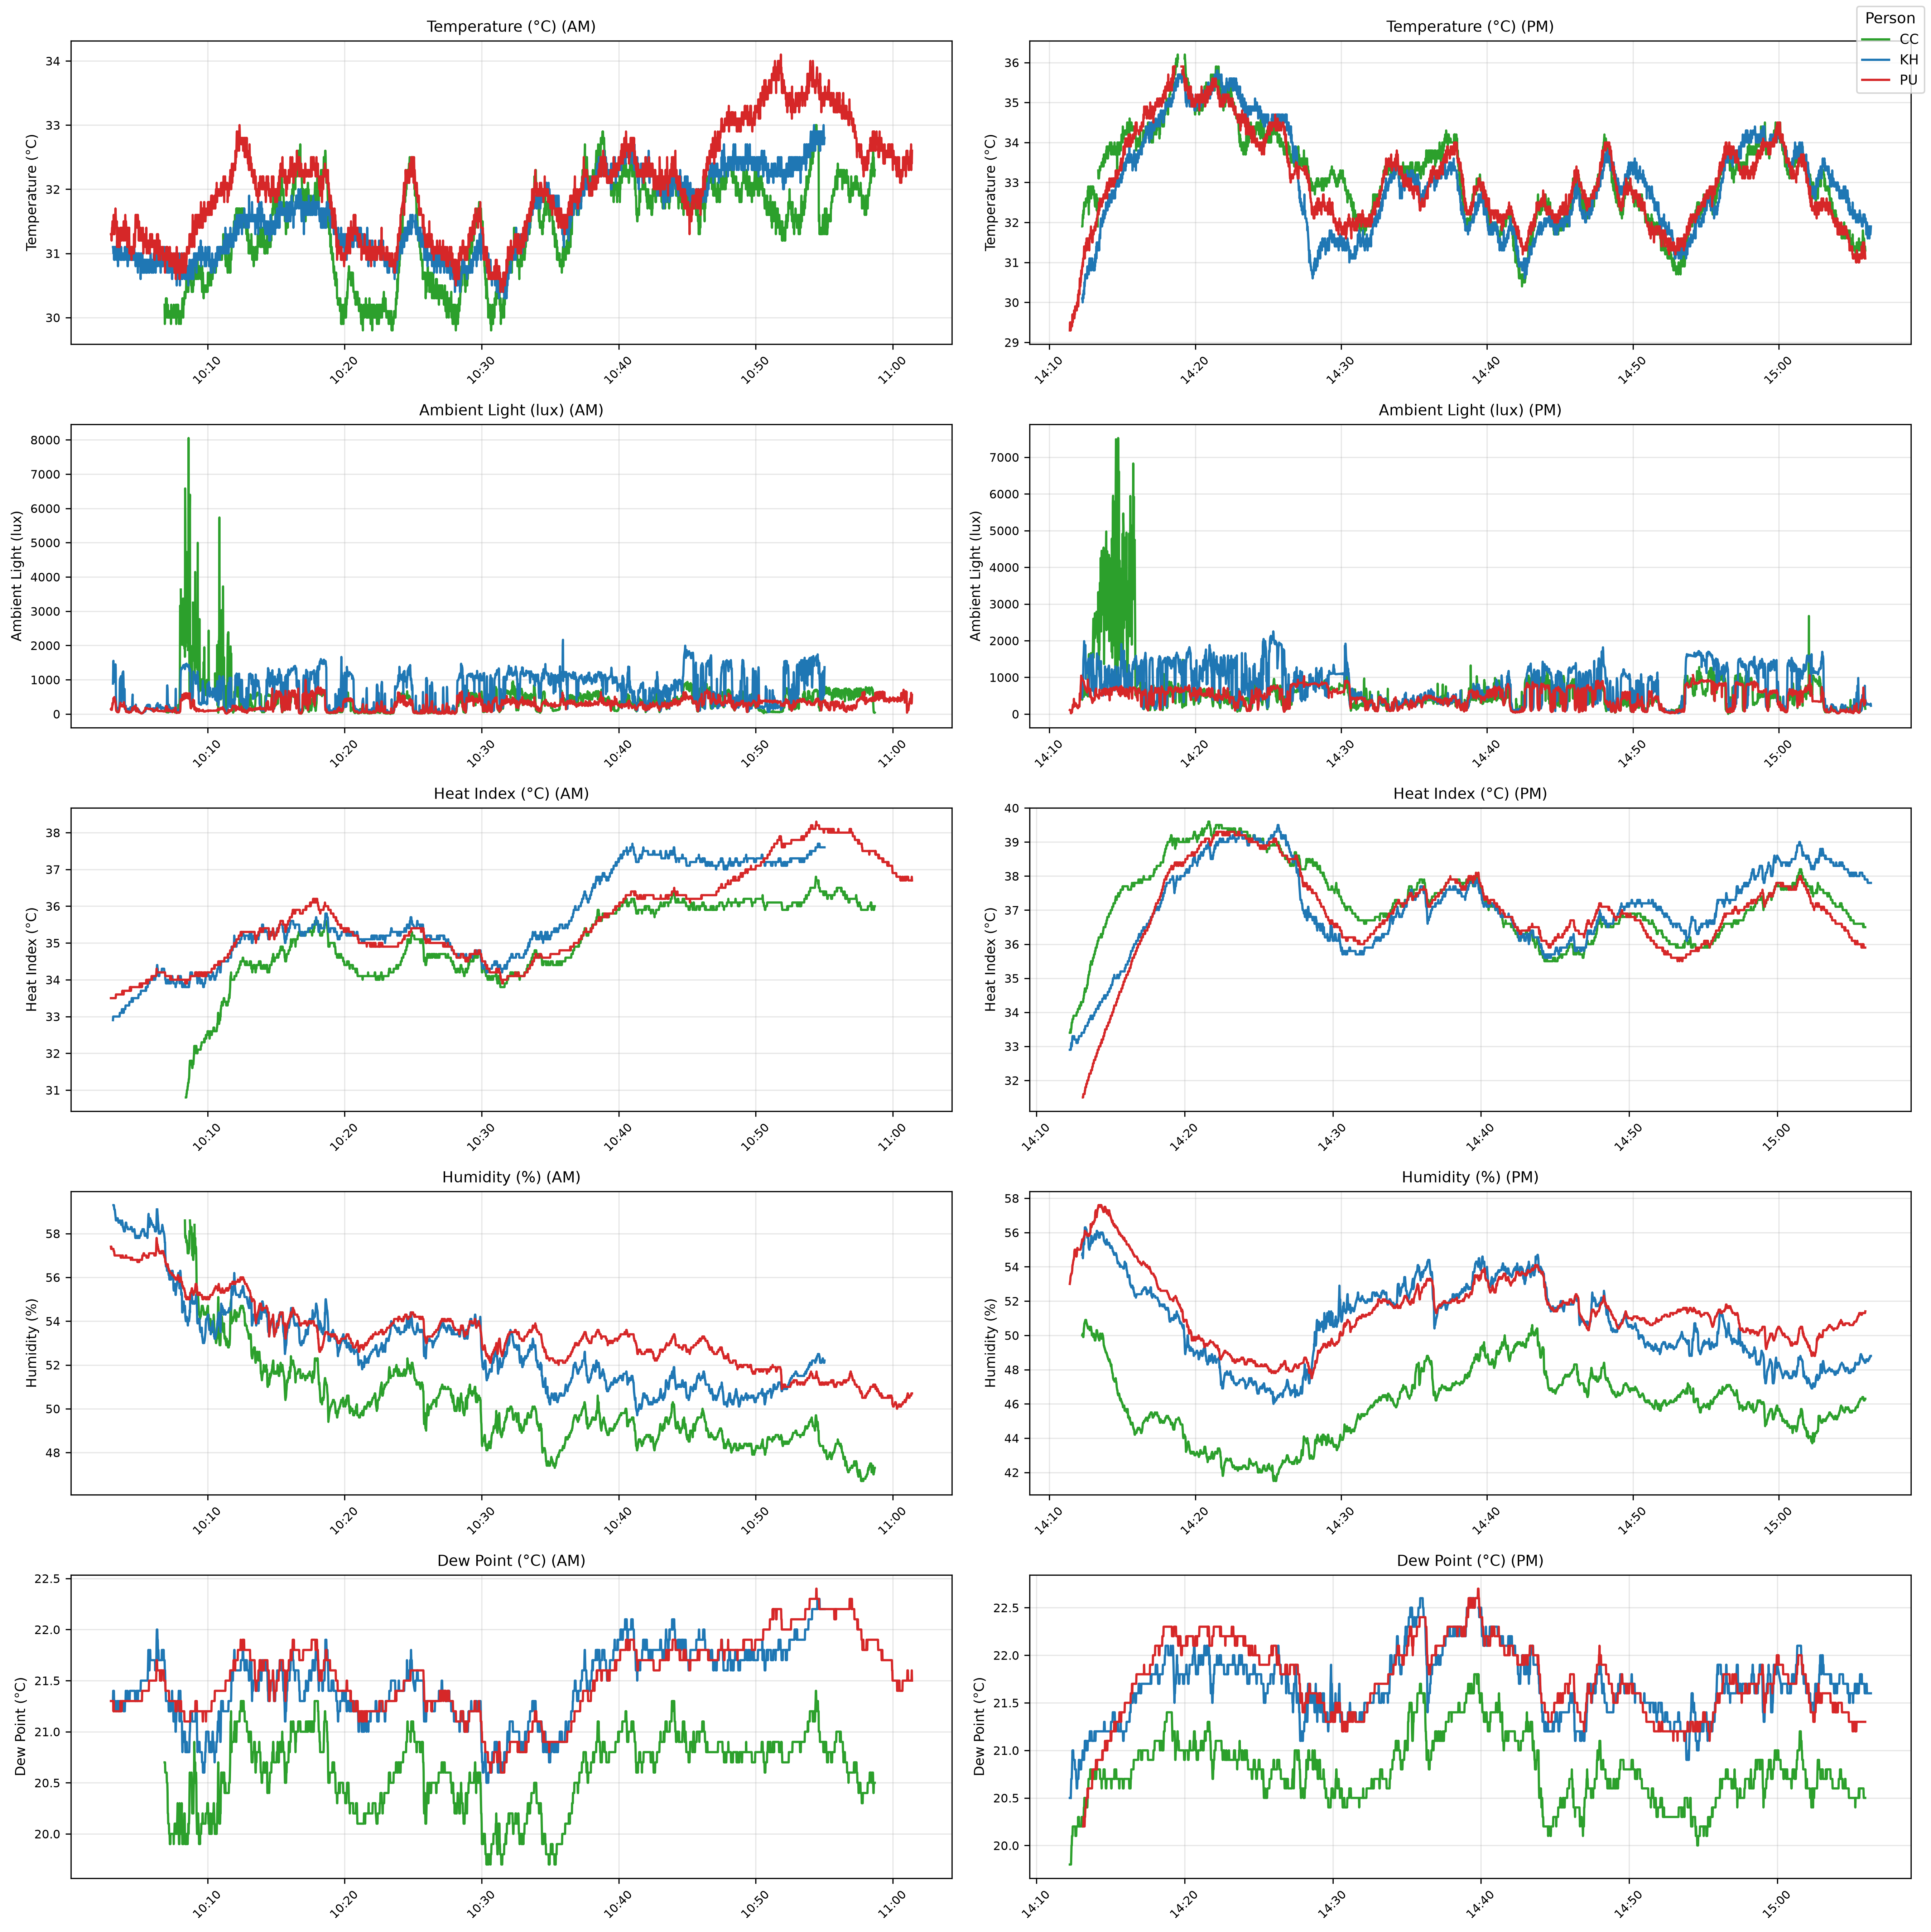
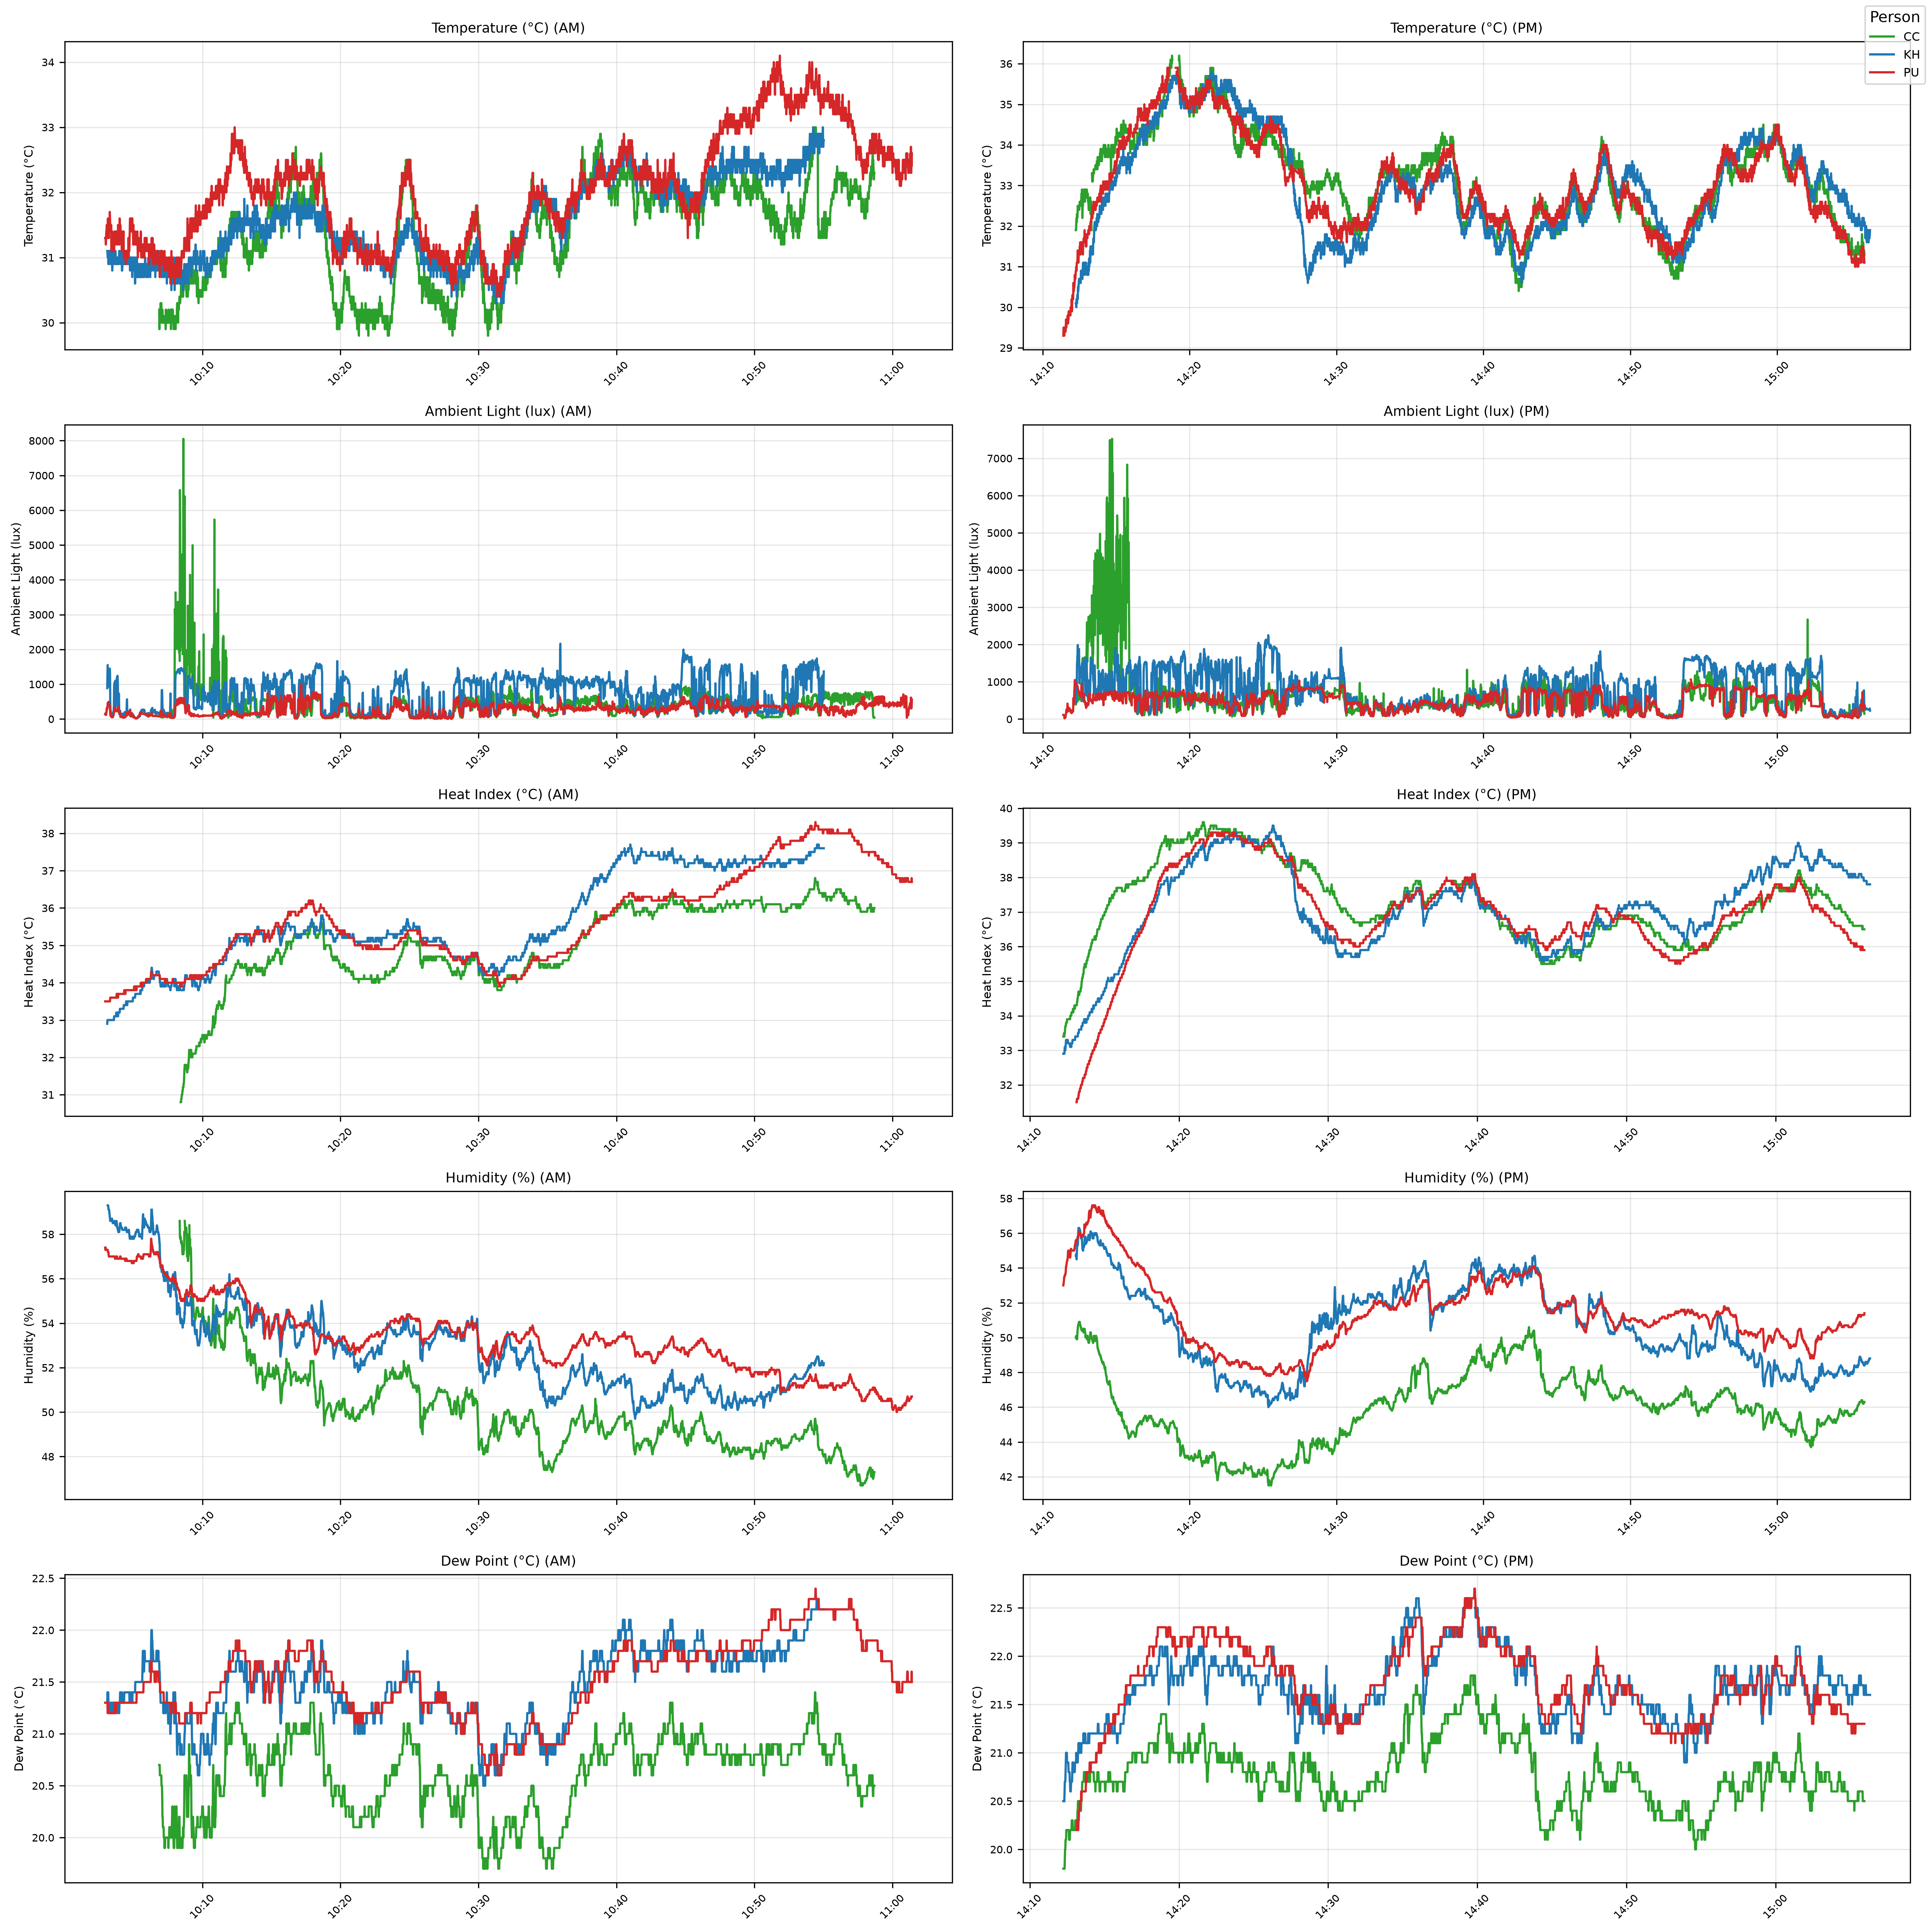
greg changes

diff --git a/analysis.py b/analysis.py
@@ -20,11 +20,11 @@ print("Using folder:", folder)
 
 files = glob.glob(os.path.join(folder, "*.csv"))
 
+dfs = []
+
 # ---------------------------------------------------
 # 2. LOAD DATA
 # ---------------------------------------------------
-dfs = []
-
 for f in files:
 
     name = os.path.basename(f)
@@ -79,7 +79,7 @@ for col in [temp_col, light_col, heat_col, humidity_col, dew_col]:
         data[col] = extract_numeric(data[col])
 
 # ---------------------------------------------------
-# 5. CREATE DATETIME
+# 5. DATETIME
 # ---------------------------------------------------
 if "Date" in data.columns and "Time" in data.columns:
 
@@ -95,7 +95,7 @@ data = data.dropna(subset=["datetime", "person"])
 data = data.sort_values("datetime")
 
 # ---------------------------------------------------
-# 6. AM / PM SPLIT (1:30 PM FIXED)
+# 6. AM / PM SPLIT
 # ---------------------------------------------------
 data["hour_decimal"] = (
     data["datetime"].dt.hour +
@@ -111,7 +111,7 @@ data["period"] = np.where(
 )
 
 # ---------------------------------------------------
-# 7. OUTLIER REMOVAL (±3 STD)
+# 7. OUTLIERS (±3 STD)
 # ---------------------------------------------------
 variables = [temp_col, light_col, heat_col, humidity_col, dew_col]
 
@@ -137,18 +137,16 @@ for person in data["person"].unique():
         data.loc[outliers, col] = np.nan
 
 # ---------------------------------------------------
-# 8. GAP BREAK FUNCTION (FIXED)
+# 8. GAP BREAKS
 # ---------------------------------------------------
 def break_gaps(df, time_col, value_col, threshold_minutes=20):
 
     df = df.sort_values(time_col).copy()
 
     diff = df[time_col].diff()
-
     threshold = pd.Timedelta(minutes=threshold_minutes)
 
     gap = diff > threshold
-
     df.loc[gap, value_col] = np.nan
 
     return df
@@ -164,17 +162,12 @@ colors = {
     "CC": "#2ca02c"
 }
 
-default_color = "black"
+# ---------------------------------------------------
+# 10. PLOT
+# ---------------------------------------------------
+fig, axes = plt.subplots(5, 2, figsize=(18, 18), sharex=False)
 
-# ---------------------------------------------------
-# 10. PLOT SETUP
-# ---------------------------------------------------
-fig, axes = plt.subplots(
-    5,
-    2,
-    figsize=(18, 18),
-    sharex=False
-)
+fig.subplots_adjust(hspace=0.35, wspace=0.15)
 
 plots = [
     (temp_col, "Temperature (°C)"),
@@ -184,9 +177,6 @@ plots = [
     (dew_col, "Dew Point (°C)")
 ]
 
-# ---------------------------------------------------
-# 11. PLOTTING
-# ---------------------------------------------------
 for row, (col, title) in enumerate(plots):
 
     if col is None:
@@ -200,11 +190,7 @@ for row, (col, title) in enumerate(plots):
 
         for person in people:
 
-            subset = subset_period[
-                subset_period["person"] == person
-            ].copy()
-
-            # break fake continuous lines
+            subset = subset_period[subset_period["person"] == person].copy()
             subset = break_gaps(subset, "datetime", col)
 
             ax.plot(
@@ -212,22 +198,27 @@ for row, (col, title) in enumerate(plots):
                 subset[col],
                 label=person,
                 linewidth=1.5,
-                color=colors.get(person, default_color)
+                color=colors.get(person)
             )
 
-        ax.set_title(f"{title} ({period})", fontsize=10)
-        ax.set_ylabel(title, fontsize=9)
+        # ---------------------------
+        # FORMATTING FIXES
+        # ---------------------------
+        ax.set_title(f"{title} ({period})", fontsize=9)
+
+        ax.set_ylabel(title, fontsize=8)
+
+        ax.tick_params(axis="x", labelsize=7, rotation=45)
+        ax.tick_params(axis="y", labelsize=7)
+
         ax.grid(True, alpha=0.3)
 
         ax.xaxis.set_major_formatter(
             mdates.DateFormatter("%H:%M")
         )
 
-        ax.tick_params(axis="x", rotation=45, labelsize=8)
-        ax.tick_params(axis="y", labelsize=8)
-
 # ---------------------------------------------------
-# 12. LEGEND
+# 11. LEGEND
 # ---------------------------------------------------
 handles, labels = axes[0, 0].get_legend_handles_labels()
 
@@ -236,11 +227,11 @@ fig.legend(
     labels,
     title="Person",
     loc="upper right",
-    fontsize=9
+    fontsize=8
 )
 
 # ---------------------------------------------------
-# 13. SAVE OUTPUT
+# 12. SAVE
 # ---------------------------------------------------
 os.makedirs("outputs", exist_ok=True)
 